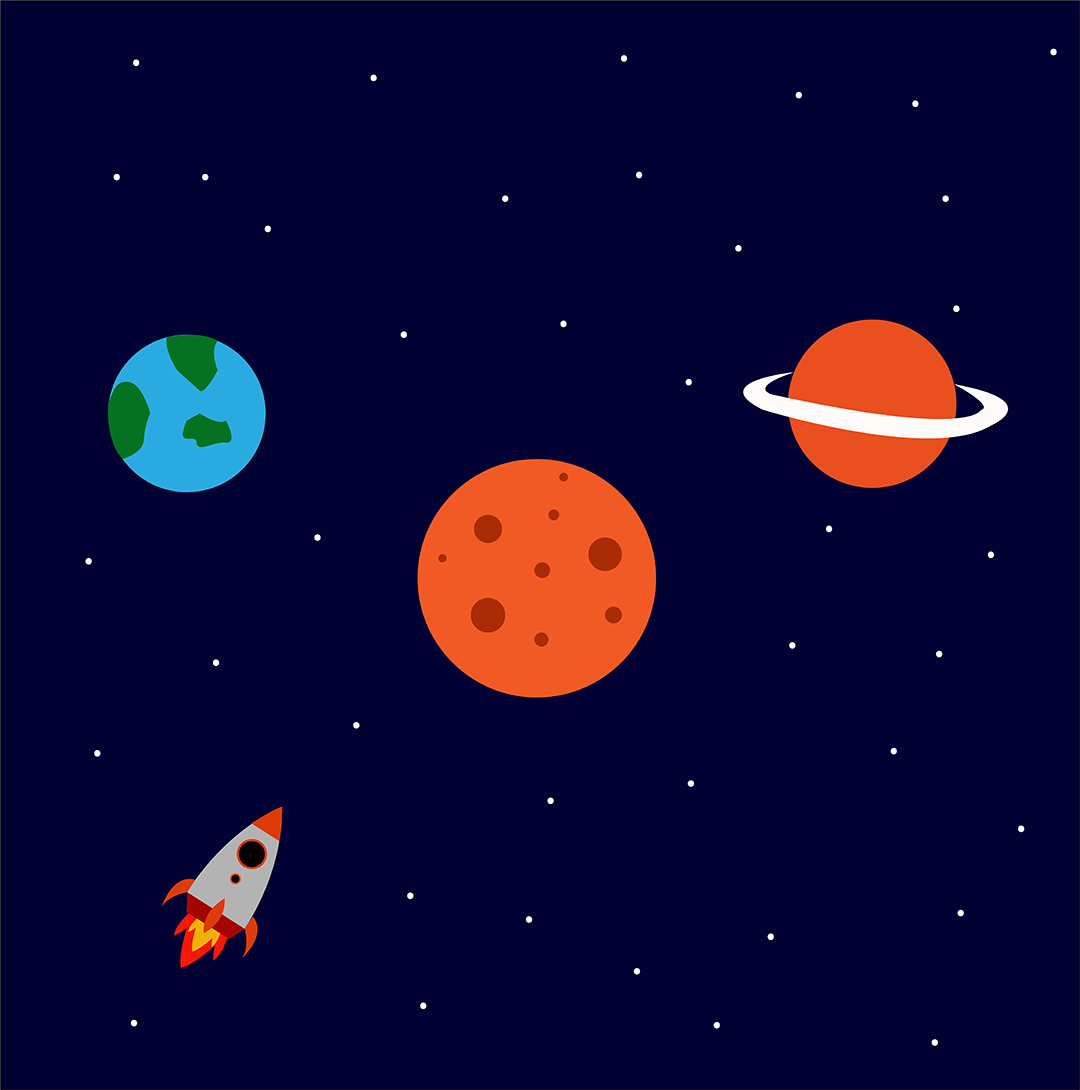
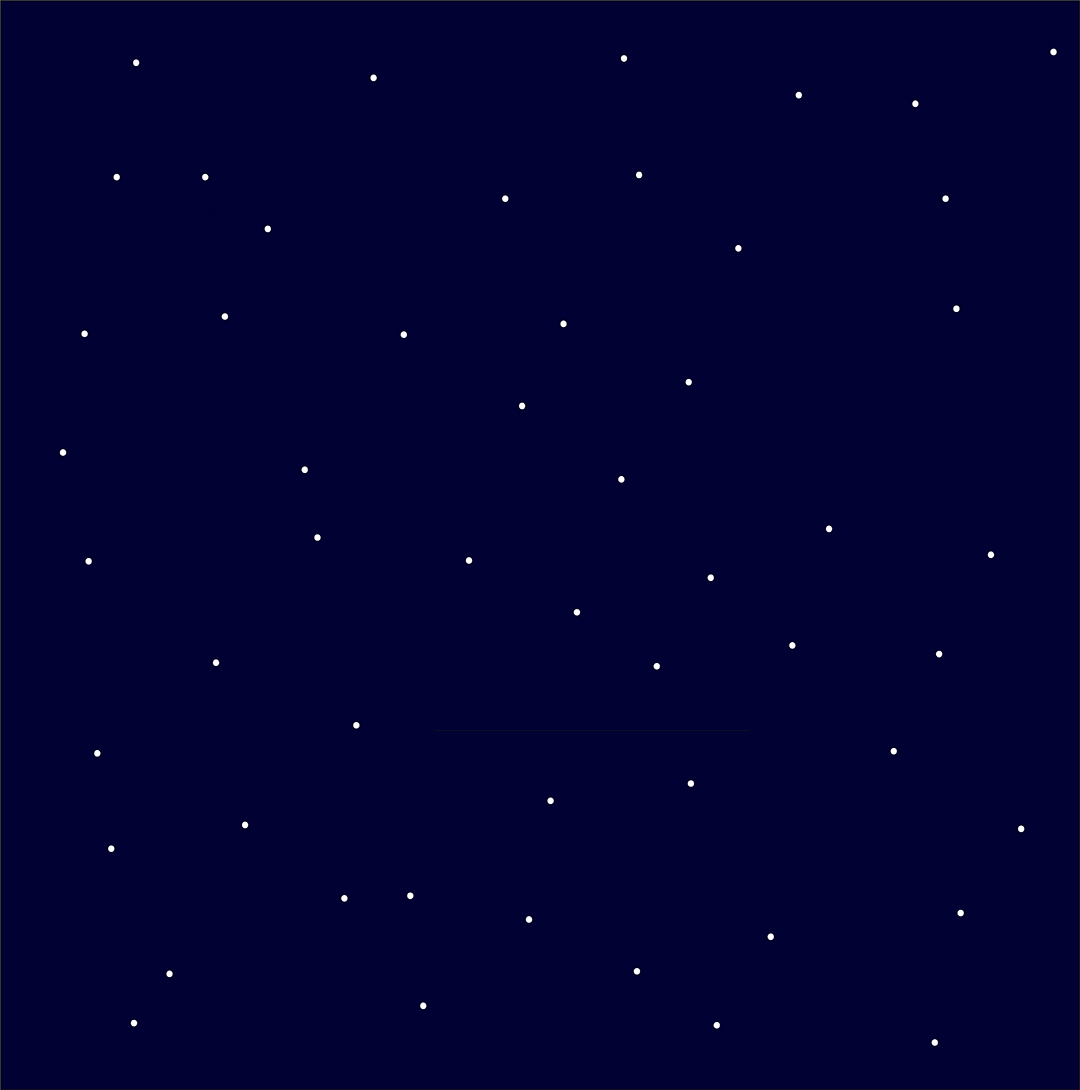
NeST text made white. Planets removed.

diff --git a/src/pages/home/style.css b/src/pages/home/style.css
@@ -639,7 +639,7 @@ body {
     position: absolute;
     top: 0px;
     left: 0px;
-    background: url('./images/space.png');
+    background: url('./images/space_1.png');
     background-size: contain;
     background-position: center;
     height: 100vh;
